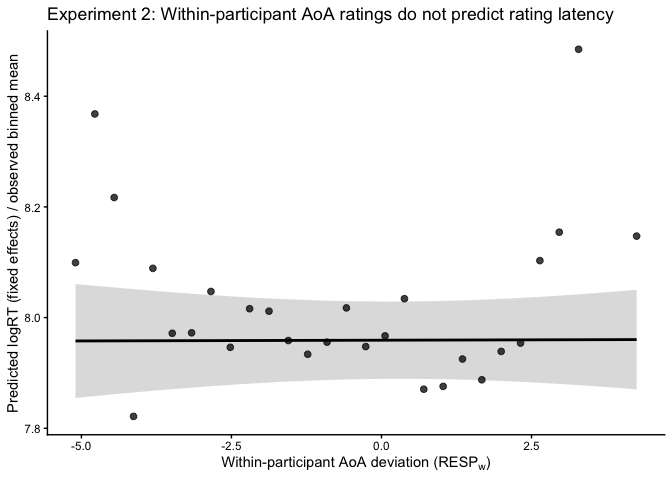
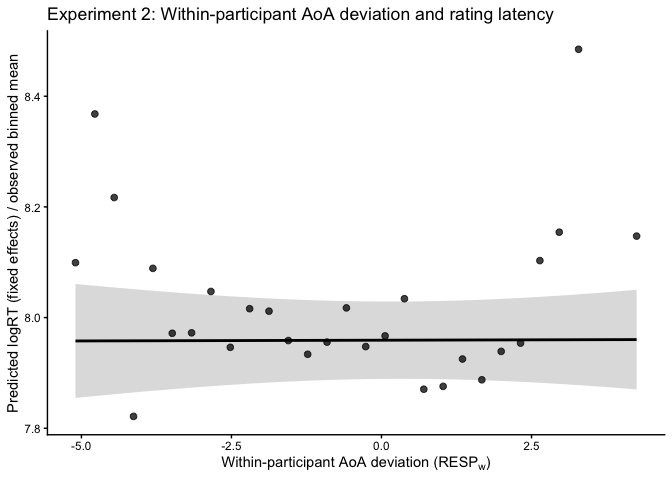
analysis: update AoA report and regenerated figure
Apply latest edits to analysis source and rendered markdown

Refresh figure-gfm output to match updated report

Changed region(s): [[0.5, 0.0, 0.9062, 0.0625]]

diff --git a/code/Chinese_homonym_meaning_level_AoA_analysis.md b/code/Chinese_homonym_meaning_level_AoA_analysis.md
@@ -1119,7 +1119,7 @@ p <- ggplot() +
   labs(
     x = expression(paste("Within-participant AoA deviation (RESP"[w], ")")),
     y = "Predicted logRT (fixed effects) / observed binned mean",
-    title = "Experiment 2: Within-participant AoA ratings do not predict rating latency"
+    title = "Experiment 2: Within-participant AoA deviation and rating latency"
   ) +
   theme_classic()
 
